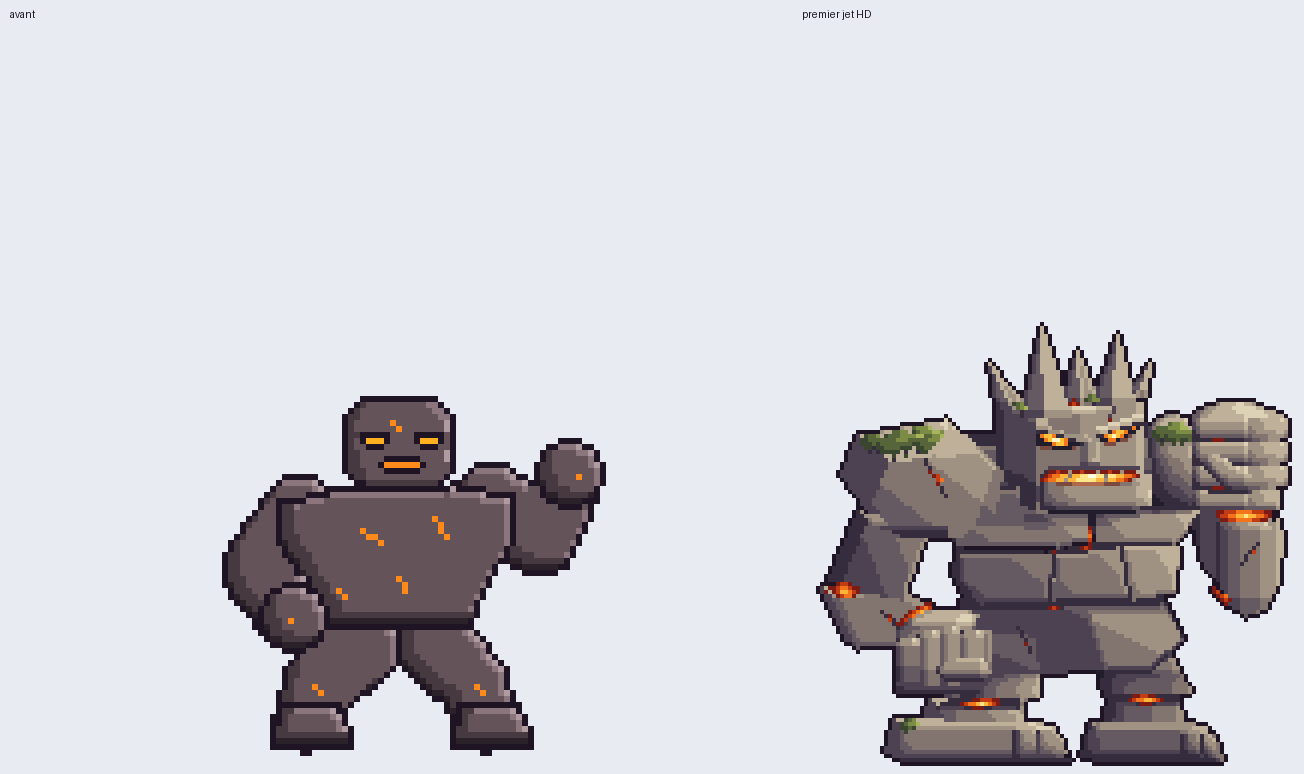
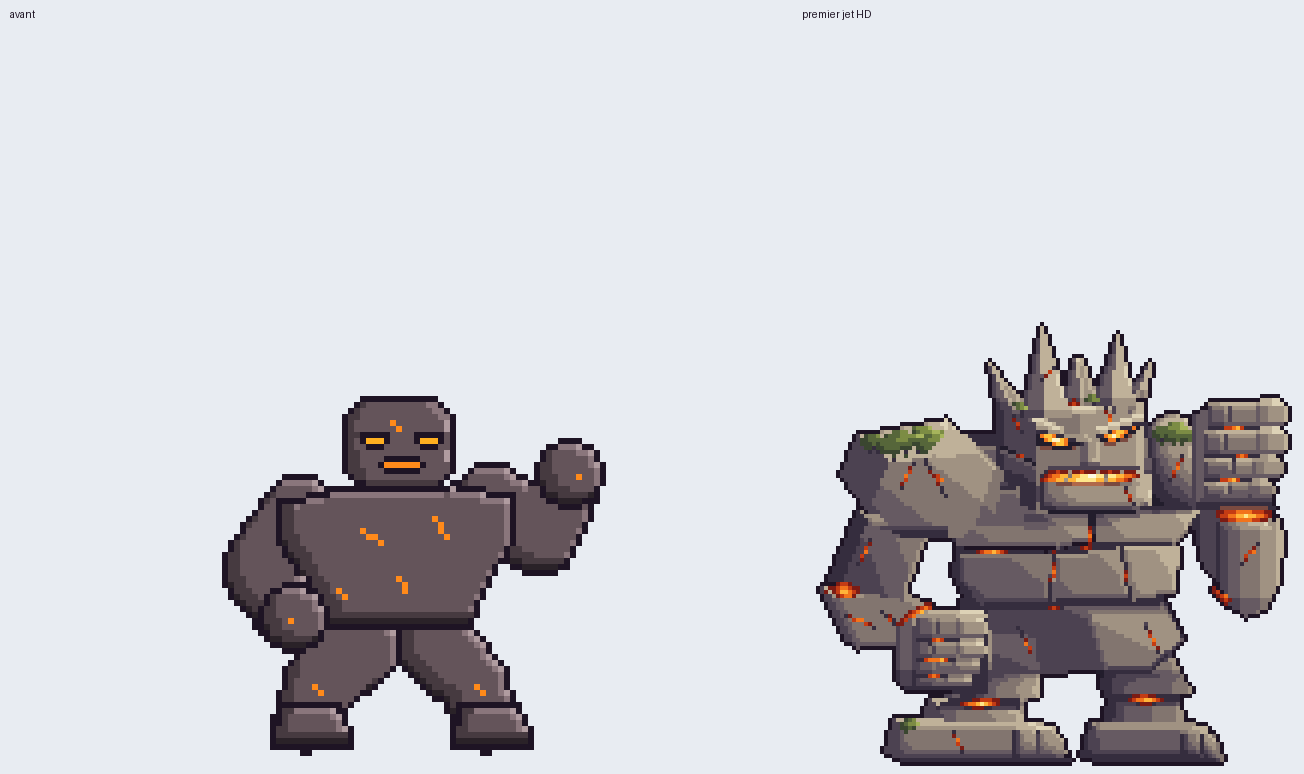
Héros HD : Lenore (manche droit) et Garvin (poings, lave, tête) retouchés
Claude-Session: https://claude.ai/code/session_01StTiAY1KCerfi9tSgksXg5

diff --git a/refonte-graphique/pixel/hd/suivi.py b/refonte-graphique/pixel/hd/suivi.py
@@ -58,7 +58,7 @@ RETOUCHES = {
     'ysolde': "Nez moins brouillon.",
 }
 # retouches faites, en attente du regard du propriétaire
-FAITES = set()
+FAITES = {'lenore', 'garvin'}
 ELEMENTS = [('eau', 'Eau'), ('terre', 'Terre'), ('feu', 'Feu'), ('vent', 'Vent')]
 
 
